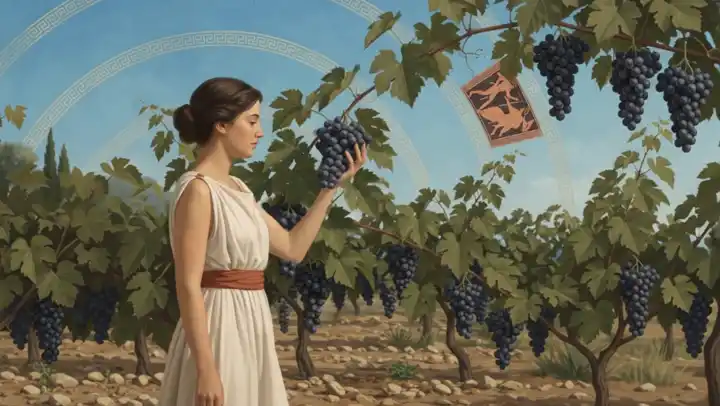
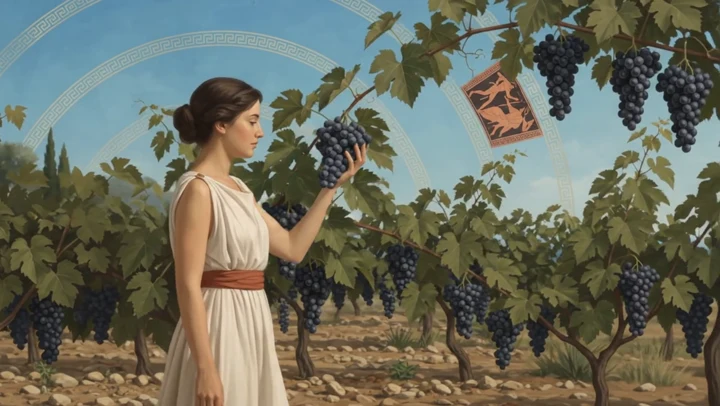
Fluidita e qualita: finestra che insegue lo scroll, otturatore, fermi rifiniti
Preso dai repo valutati solo cio che serviva davvero, e fatto in casa.

DIFETTO TROVATO E CORRETTO — i raccordi usavano come fotogramma B
l ultimo della zona-ponte, che e un composito cotto del vecchio
match-cut, non l inquadratura in arrivo. Ora A = ultimo fotogramma
dell inquadratura uscente, B = primo di quella entrante. Corretto anche
in lab/taglia-ripetizioni.mjs perche non si ripresenti.

QUALITA (lab/rifinisci-fermi.mjs) — il film e in WebP q62, giusto per
fotogrammi a grandezza naturale, troppo poco per i DODICI fermi-immagine
su cui i raccordi zoomano fino a 2,6x: li gli artefatti si ingrandiscono
insieme all immagine. Riestratti dalle clip sorgente a q95 (mobile q88):
da 33 a 117 KB medi, +1 MB in tutto, artefatti via. Nessun modello e
nessun pixel inventato — gli stessi pixel, codificati meglio. Gli
originali restano in _sorgenti/fermi-prima-della-rifinitura/.

FLUIDITA — due interventi:
- la finestra di caricamento ora segue la DIREZIONE del viaggio: andando
  avanti si allunga davanti (fino a 2,6x con la velocita) e si accorcia
  dietro. Prima caricava simmetrico, cioe meta banda sprecata dietro le
  spalle, ed e da li che nasce lo scatto quando il playhead scavalca i
  fotogrammi caricati;
- otturatore: da fermo si fondono due fotogrammi adiacenti, oltre 0,55 di
  velocita la coppia si allarga di uno e la fusione diventa scia, come un
  otturatore aperto piu a lungo. Oltre due non si va: sarebbe
  sdoppiamento, non movimento.

diff --git a/src/shader-setup.js b/src/shader-setup.js
@@ -288,8 +288,16 @@ function curaFinestra(gl) {
   if (!sceneFrames[0]) sceneFrames[0] = [];
   var frames = sceneFrames[0];
   var c = Math.round(attuale * (n - 1));
-  var lo = Math.max(0, c - FIN_DIETRO);
-  var hi = Math.min(n - 1, c + FIN_AVANTI);
+  /* La finestra segue la DIREZIONE del viaggio: scorrendo in avanti non
+     ha senso caricare dietro le spalle. A velocita alta si allunga
+     davanti e si accorcia dietro, cosi il playhead non scavalca mai i
+     fotogrammi caricati — e da li che nasce lo scatto. */
+  var verso = bersaglio > attuale ? 1 : (bersaglio < attuale ? -1 : 0);
+  var spinta = 1 + velScrub * 1.6;
+  var avanti = Math.round(FIN_AVANTI * (verso >= 0 ? spinta : 0.45));
+  var dietro = Math.round(FIN_DIETRO * (verso <= 0 ? spinta : 0.45));
+  var lo = Math.max(0, c - (verso >= 0 ? dietro : avanti));
+  var hi = Math.min(n - 1, c + (verso >= 0 ? avanti : dietro));
 
   /* Sgombero fuori finestra, ogni ~30 tick */
   if (++_sgomberoTick >= 30) {
@@ -1330,10 +1338,18 @@ export function initShader() {
       var nSub = (framesData[0] && framesData[0].n) || 1;
       var fSub = attuale * (nSub - 1);
       var i0Sub = Math.floor(fSub);
+      /* Otturatore: da fermo si fondono due fotogrammi adiacenti; a scrub
+         veloce la coppia si allarga di uno, e la fusione diventa una
+         scia — la stessa cosa che fa un otturatore aperto piu a lungo.
+         Oltre due non si va: sarebbe sdoppiamento, non movimento. */
+      var passo = velScrub > 0.55 ? 2 : 1;
+      var iB = Math.min(nSub - 1, i0Sub + passo);
       program.uniforms.mode.value = 17;
-      program.uniforms.progress.value = fSub - i0Sub;
+      program.uniforms.progress.value = passo === 1
+        ? (fSub - i0Sub)
+        : Math.min(1, (fSub - i0Sub) / passo + 0.25);
       sel._subA = i0Sub;
-      sel._subB = Math.min(nSub - 1, i0Sub + 1);
+      sel._subB = iB;
     } else {
       program.uniforms.progress.value = sel._blendProgress !== undefined ? sel._blendProgress : sel.transProgress;
       program.uniforms.mode.value = sel.shaderMode >= 0 ? sel.shaderMode : 0;
